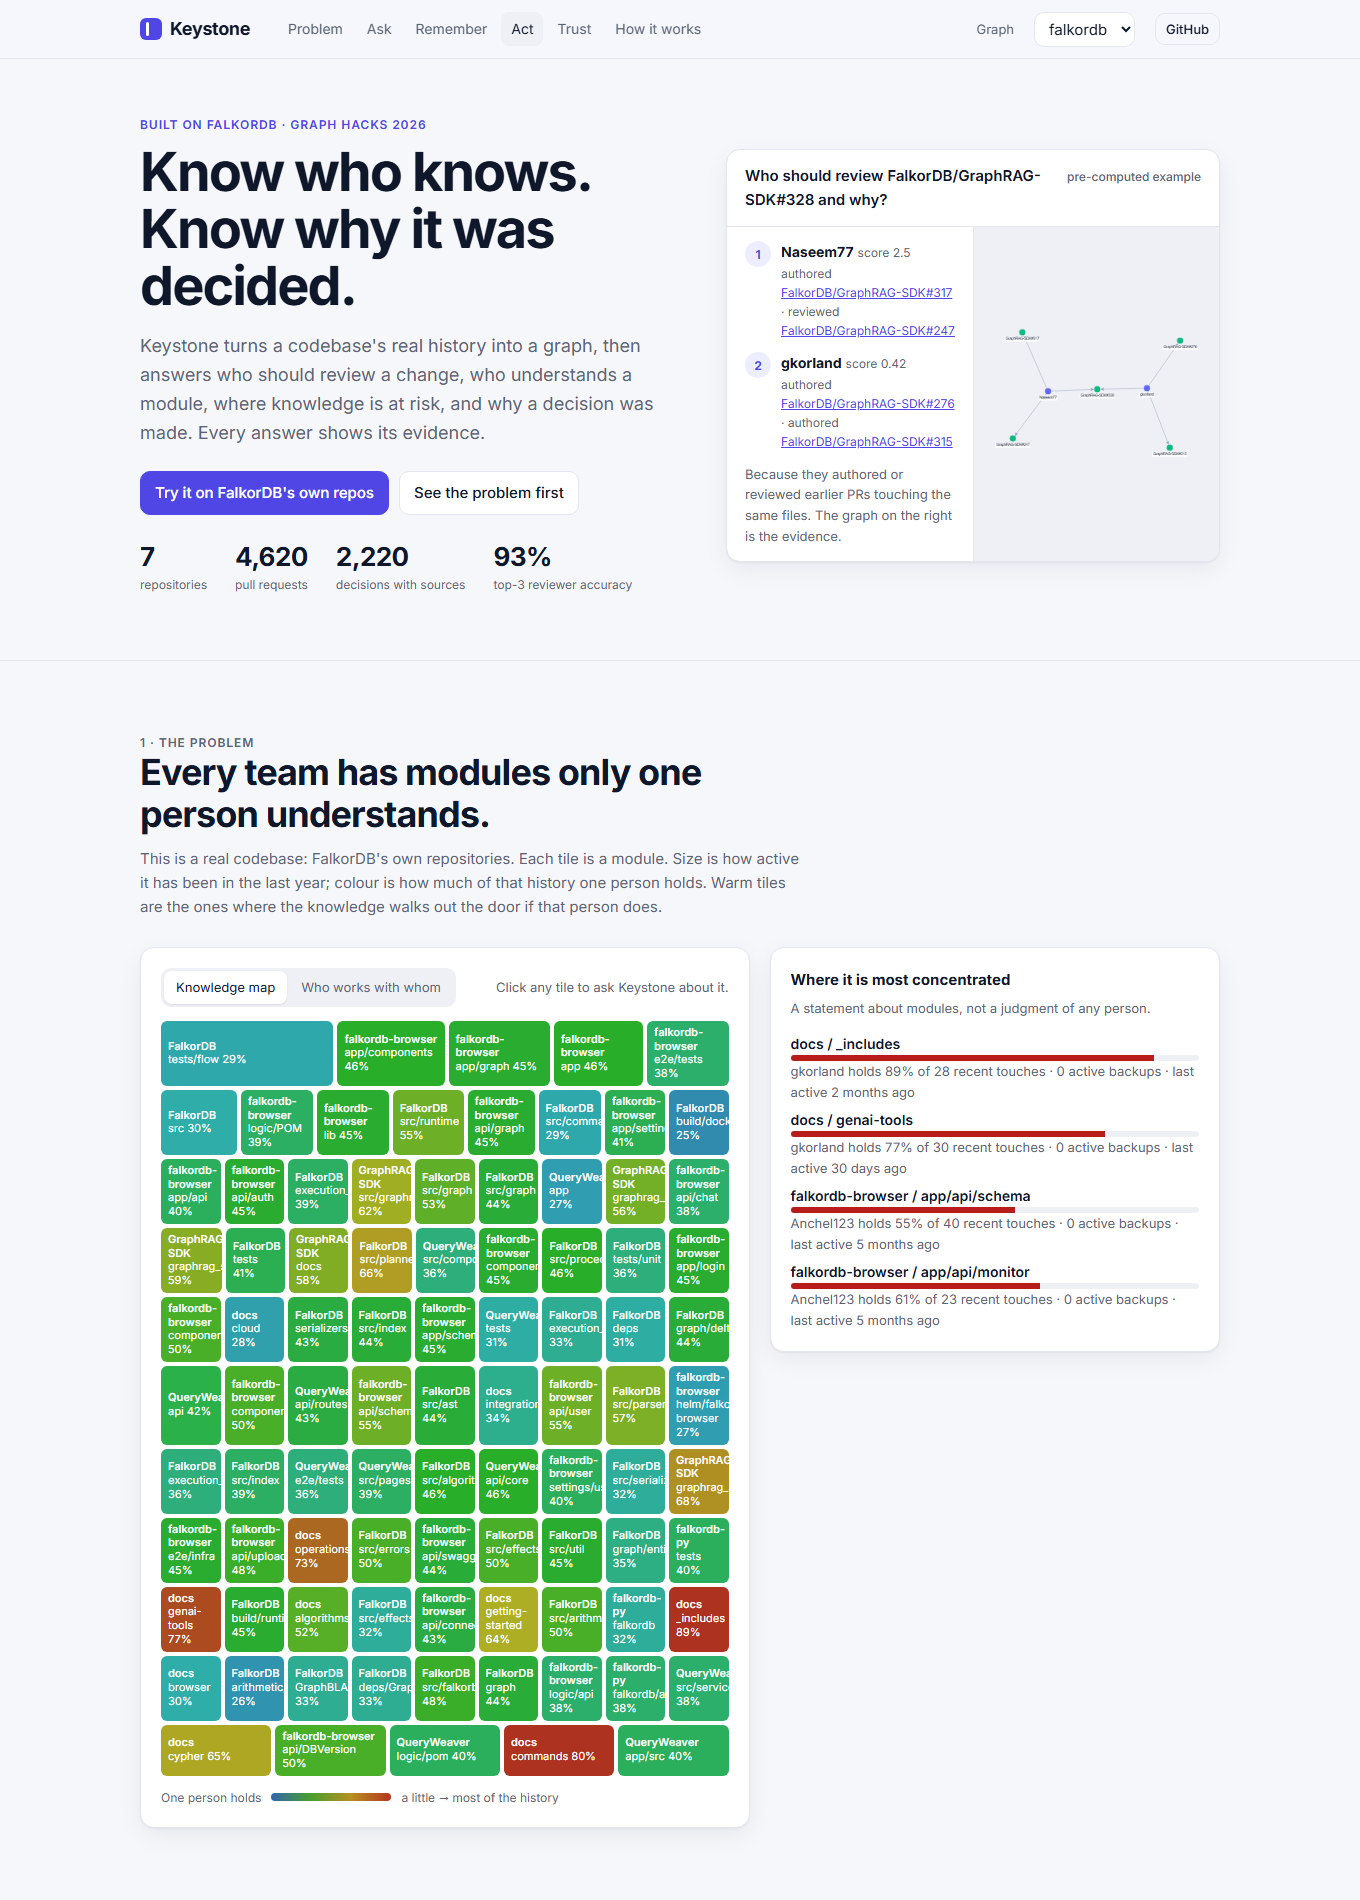
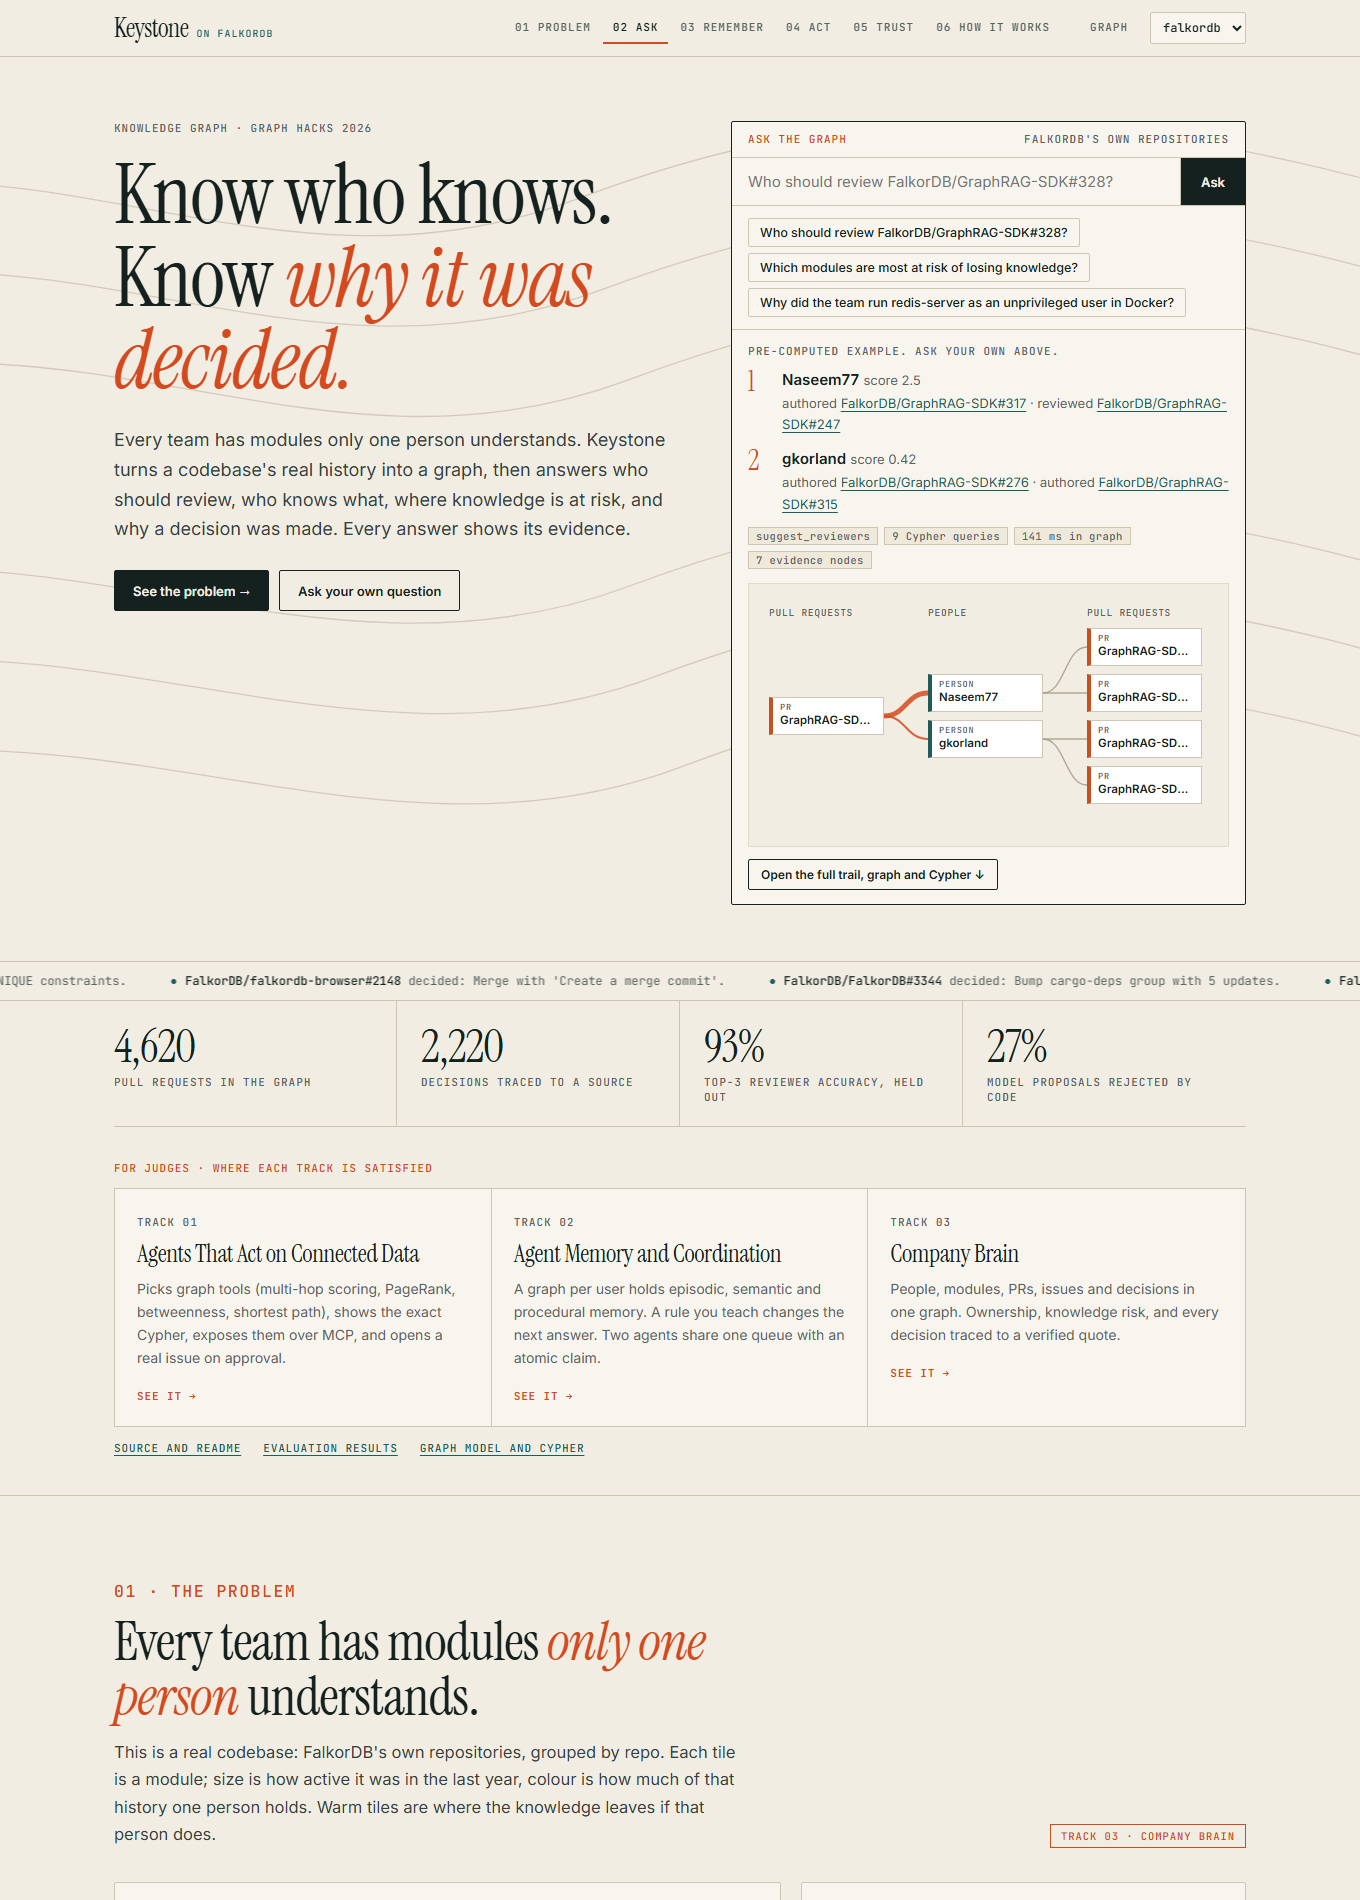
Video guide, README screenshots of the new UI

diff --git a/docs/VIDEO_GUIDE.md b/docs/VIDEO_GUIDE.md
@@ -1,0 +1,125 @@
+# Recording the Keystone demo video: complete guide
+
+## What the rules say
+
+The Graph Hacks rules require "a demo video showing the working project" (rule 10). **No maximum length, format or hosting is specified.** First Commit, WeMakeDevs' earlier event, used 3 minutes and told judges there is no live demo, so the video is the demo.
+
+**Target 3:00. Never go over 4:00.** Judges watch many videos; the first 30 seconds decide how closely they pay attention. Put your strongest proof early (the reasoning trail and the 93% result).
+
+Upload to **YouTube as Unlisted or Public** (anyone with the link must be able to watch without logging in). Test the link in a private window.
+
+## Part 1: Equipment and tools (free)
+
+| Need | Recommendation |
+|---|---|
+| Screen + face recorder | **OBS Studio** (free). One scene: your screen full-size with your webcam as a small rounded bubble bottom-right. A second scene: webcam full-frame for the intro and outro. |
+| Microphone | Audio matters more than video. A headset or wired earbuds with a mic close to your mouth beats a laptop mic. |
+| Editing | **Clipchamp** (built into Windows 11, free) or the OBS recording trimmed with it. |
+| Camera | Laptop webcam is fine. Put it at eye level (stack books under the laptop). |
+| Light | Sit facing a window or lamp. Never have the light behind you. |
+| Resolution | 1920x1080, 30 fps, MP4. |
+
+OBS settings: Settings > Video: base and output 1920x1080, 30 fps. Settings > Output > Recording: format MP4, quality "High" or "Indistinguishable". Settings > Audio: mic only; turn desktop audio **off** (so notification sounds are not recorded). Do a 20-second test and watch it back.
+
+## Part 2: Prepare your screen
+
+1. Open the live site in a **new Incognito window** so you get a fresh anonymous user with empty memory: https://keystone-graph.vercel.app
+2. Press F11 for full screen, zoom 100% (Ctrl+0). Hide the bookmarks bar. Close every other tab and window.
+3. Windows: turn on Focus assist / Do not disturb so no notifications appear.
+4. Never show your `.env`, any token, your email, or DevTools. Keep the OpenAI and GitHub settings pages closed.
+5. In a second (non-recorded) window, open the sandbox repo issues page: https://github.com/srinjoy356/keystone-sandbox/issues so you can show the created issue.
+6. Tell me before you record and I will clear the shared task queue so the Act section starts empty.
+7. Put your script on a second screen or phone, not on the recorded screen.
+8. Do one full rehearsal. Answers take 3 to 8 seconds; you will fill that time by narrating what the steps list shows.
+
+## Part 3: The structure (about 3:00)
+
+| Time | Shot | Goal |
+|---|---|---|
+| 0:00 - 0:15 | **Face, full frame** | Who you are, the problem, the promise |
+| 0:15 - 0:40 | Screen: hero, then the knowledge map | The problem on real data (Track 3) |
+| 0:40 - 1:20 | Screen: Ask section | An answer with evidence (Track 1) |
+| 1:20 - 1:50 | Screen: Remember | Memory that changes answers (Track 2) |
+| 1:50 - 2:15 | Screen: Act | Two agents and a real action (Tracks 1 and 2) |
+| 2:15 - 2:40 | Screen: Trust | Proof it works |
+| 2:40 - 2:55 | Screen: How it works | FalkorDB is central |
+| 2:55 - 3:05 | **Face, full frame** | Close and links |
+
+If you are not comfortable doing it in one take, record three pieces (face intro, screen with voice-over, face outro) and join them in Clipchamp.
+
+## Part 4: The script (say it in your own words; this is a guide)
+
+**0:00 Face (look into the camera lens, not the screen)**
+"Hi, I'm Srinjoy. Every engineering team has modules that only one person really understands, and when that person leaves, the knowledge leaves with them. I built Keystone on FalkorDB to find those modules and to explain every answer it gives. In three minutes I'll show you all three tracks."
+
+**0:15 Screen: hero, then scroll slowly to the knowledge map**
+"This is FalkorDB's own codebase: seven repositories and over four and a half thousand pull requests, loaded into a FalkorDB graph. Each tile is a module. Warm tiles mean one person holds most of the history. In the docs repo, one person holds eighty-nine percent of one module. That is Track 3, the company brain: ownership, expertise and knowledge risk, from real history."
+*Action: hover one hot tile so the tooltip shows. Do not click yet.*
+
+**0:40 Ask (scroll to section 02, click the starter "Who should review FalkorDB/GraphRAG-SDK#328?")**
+While it runs: "Watch the steps. The agent chooses one of nine fixed graph tools, runs Cypher on FalkorDB, then writes the answer. It never writes a query and never sees the database."
+When the answer and trail appear: "Here is why it answered this way. This pull request touched fifty files. The graph walked to earlier pull requests that touched the same files, and to the people on them. A thicker line means a bigger contribution."
+*Click the Cypher tab:* "And this is the exact Cypher that ran, read-only. That is Track 1: an agent acting on connected data, with its reasoning visible."
+(Optional, 5 seconds: "The same tools are available over MCP.")
+
+**1:20 Remember (scroll to section 03)**
+*Click Ask, then Mark on leave, then Ask again.*
+"Memory lives in the graph. Every user gets their own FalkorDB graph. I tell it the top reviewer is on leave; it writes a rule. Same question, different answer, and it tells me why. That is episodic, semantic and procedural memory, isolated from every other user. That is Track 2."
+
+**1:50 Act (scroll to section 04)**
+*Click Run triage, Claim next task, then Approve. Click the link to the created issue.*
+"Two agents coordinate through the graph. A triage agent queues open pull requests; a router claims one with a single atomic write. I tested twelve threads racing for thirty tasks, and each task was claimed exactly once. When I approve, it opens a real issue in our sandbox repository. It never touches the project it analyses."
+
+**2:15 Trust (scroll to section 05)**
+"Does it work? I hid the real reviewers of five hundred and forty-two later pull requests and predicted them using only earlier history. Keystone puts a real reviewer in its top three ninety-three percent of the time. File history gets eighty-seven, vector search alone eighty-two. And the model is never trusted: it proposes decisions with quotes, and code keeps only the ones whose quote appears verbatim in the source. Twenty-seven percent were rejected. The docs repo is our weak spot, at sixty-five percent, and we say so."
+
+**2:40 How it works (scroll to section 06)**
+"Everything lives in FalkorDB: Cypher traversals, PageRank and betweenness, a vector index for decisions, a named graph per user and per tenant, read-only queries. Take FalkorDB away and nothing runs."
+
+**2:55 Face**
+"The live demo, code and README are linked below; it runs with docker compose up. I built it with Claude Code, disclosed in the README, and I can walk you through every query. Thanks for watching."
+
+## Part 5: Delivery tips
+
+- Speak slightly slower than normal; smile in the intro. Pauses are fine, you will trim them.
+- Say "Track one, two, three" out loud. Judges score per track and this lets them tick boxes.
+- Show one thing per sentence. Move the mouse slowly and point at what you are describing.
+- Do not read the screen text aloud; explain what it means.
+- If an answer is slow, keep talking about what the steps list shows ("it is choosing a tool, now it is running Cypher").
+- If something fails, stop, take a breath, redo that section. Do not apologise on camera; cut it.
+- Do two or three takes. The second is usually best.
+
+## Part 6: If the live site is slow or fails during recording
+
+- The page falls back to a cached snapshot for reads and shows a banner; questions need the live backend.
+- Retry once. If it is still slow, record that section later and cut it in.
+- Last resort: run it locally with `docker compose up` (needs your OpenAI key in the shell) and record http://localhost:8000. The page is identical.
+
+## Part 7: Edit and export
+
+1. Trim dead air and mistakes in Clipchamp. Speed up long waits to 1.5x only if needed.
+2. Optional: auto-captions (Clipchamp does this). Many judges watch muted.
+3. Export 1080p MP4. Keep under 4:00.
+
+## Part 8: Publish
+
+- **Title:** `Keystone: know who knows, and why it was decided | FalkorDB Graph Hacks`
+- **Description:**
+  ```
+  Keystone turns a codebase's real history into a FalkorDB graph and answers who should review, who knows what, where knowledge is at risk, and why a decision was made, with the evidence for every answer.
+  Tracks: 1 Agents That Act on Connected Data, 2 Agent Memory and Coordination, 3 Company Brain.
+  Live demo: https://keystone-graph.vercel.app
+  Code: https://github.com/srinjoy356/keystone
+  0:00 Intro  0:15 Problem  0:40 Ask  1:20 Remember  1:50 Act  2:15 Trust  2:40 How it works
+  ```
+- Visibility: **Unlisted** (or Public). Open the link in a private window to confirm it plays.
+- Give me the URL. I will add it to `public/config.json` (the page then shows an embedded player and a "Watch the 3-minute demo" button) and to the README. Paste the same URL into the WeMakeDevs submission.
+
+## Checklist before you press record
+
+- [ ] Incognito window, full screen, 100% zoom, other tabs closed, notifications off
+- [ ] Sandbox issues page open in another window
+- [ ] Mic tested, face lit from the front
+- [ ] Script on a second screen
+- [ ] Rehearsed once, under 3:15
+- [ ] I have cleared the shared queue (message me)

diff --git a/README.md b/README.md
@@ -4,7 +4,11 @@
 
 Keystone turns the public history of a codebase (pull requests, reviews, issues, discussions) into a FalkorDB graph, then puts an agent on top that can answer *"who should review this?"*, *"who actually understands this module?"*, *"which modules would lose knowledge if one person left?"* and *"why did we decide that?"*. Each answer shows the subgraph and the exact Cypher behind it, and every quoted decision is checked against its source text by code before it is shown.
 
-![Keystone: the problem, a knowledge map of real modules](docs/ui-story-1.png)
+![Keystone: live ask box, track-mapped judges strip](docs/ui-story-1.png)
+
+![The problem: a knowledge map of real modules grouped by repository](docs/ui-story-2.png)
+
+![Ask: the answer, its reasoning trail, graph and Cypher](docs/ui-story-3.png)
 
 Built for **Graph Hacks: Context for AI Agents** (WeMakeDevs x FalkorDB), Oct 15-18 2026.
 Tracks entered: **1 Agents That Act on Connected Data, 2 Agent Memory and Coordination, 3 Company Brain**.
